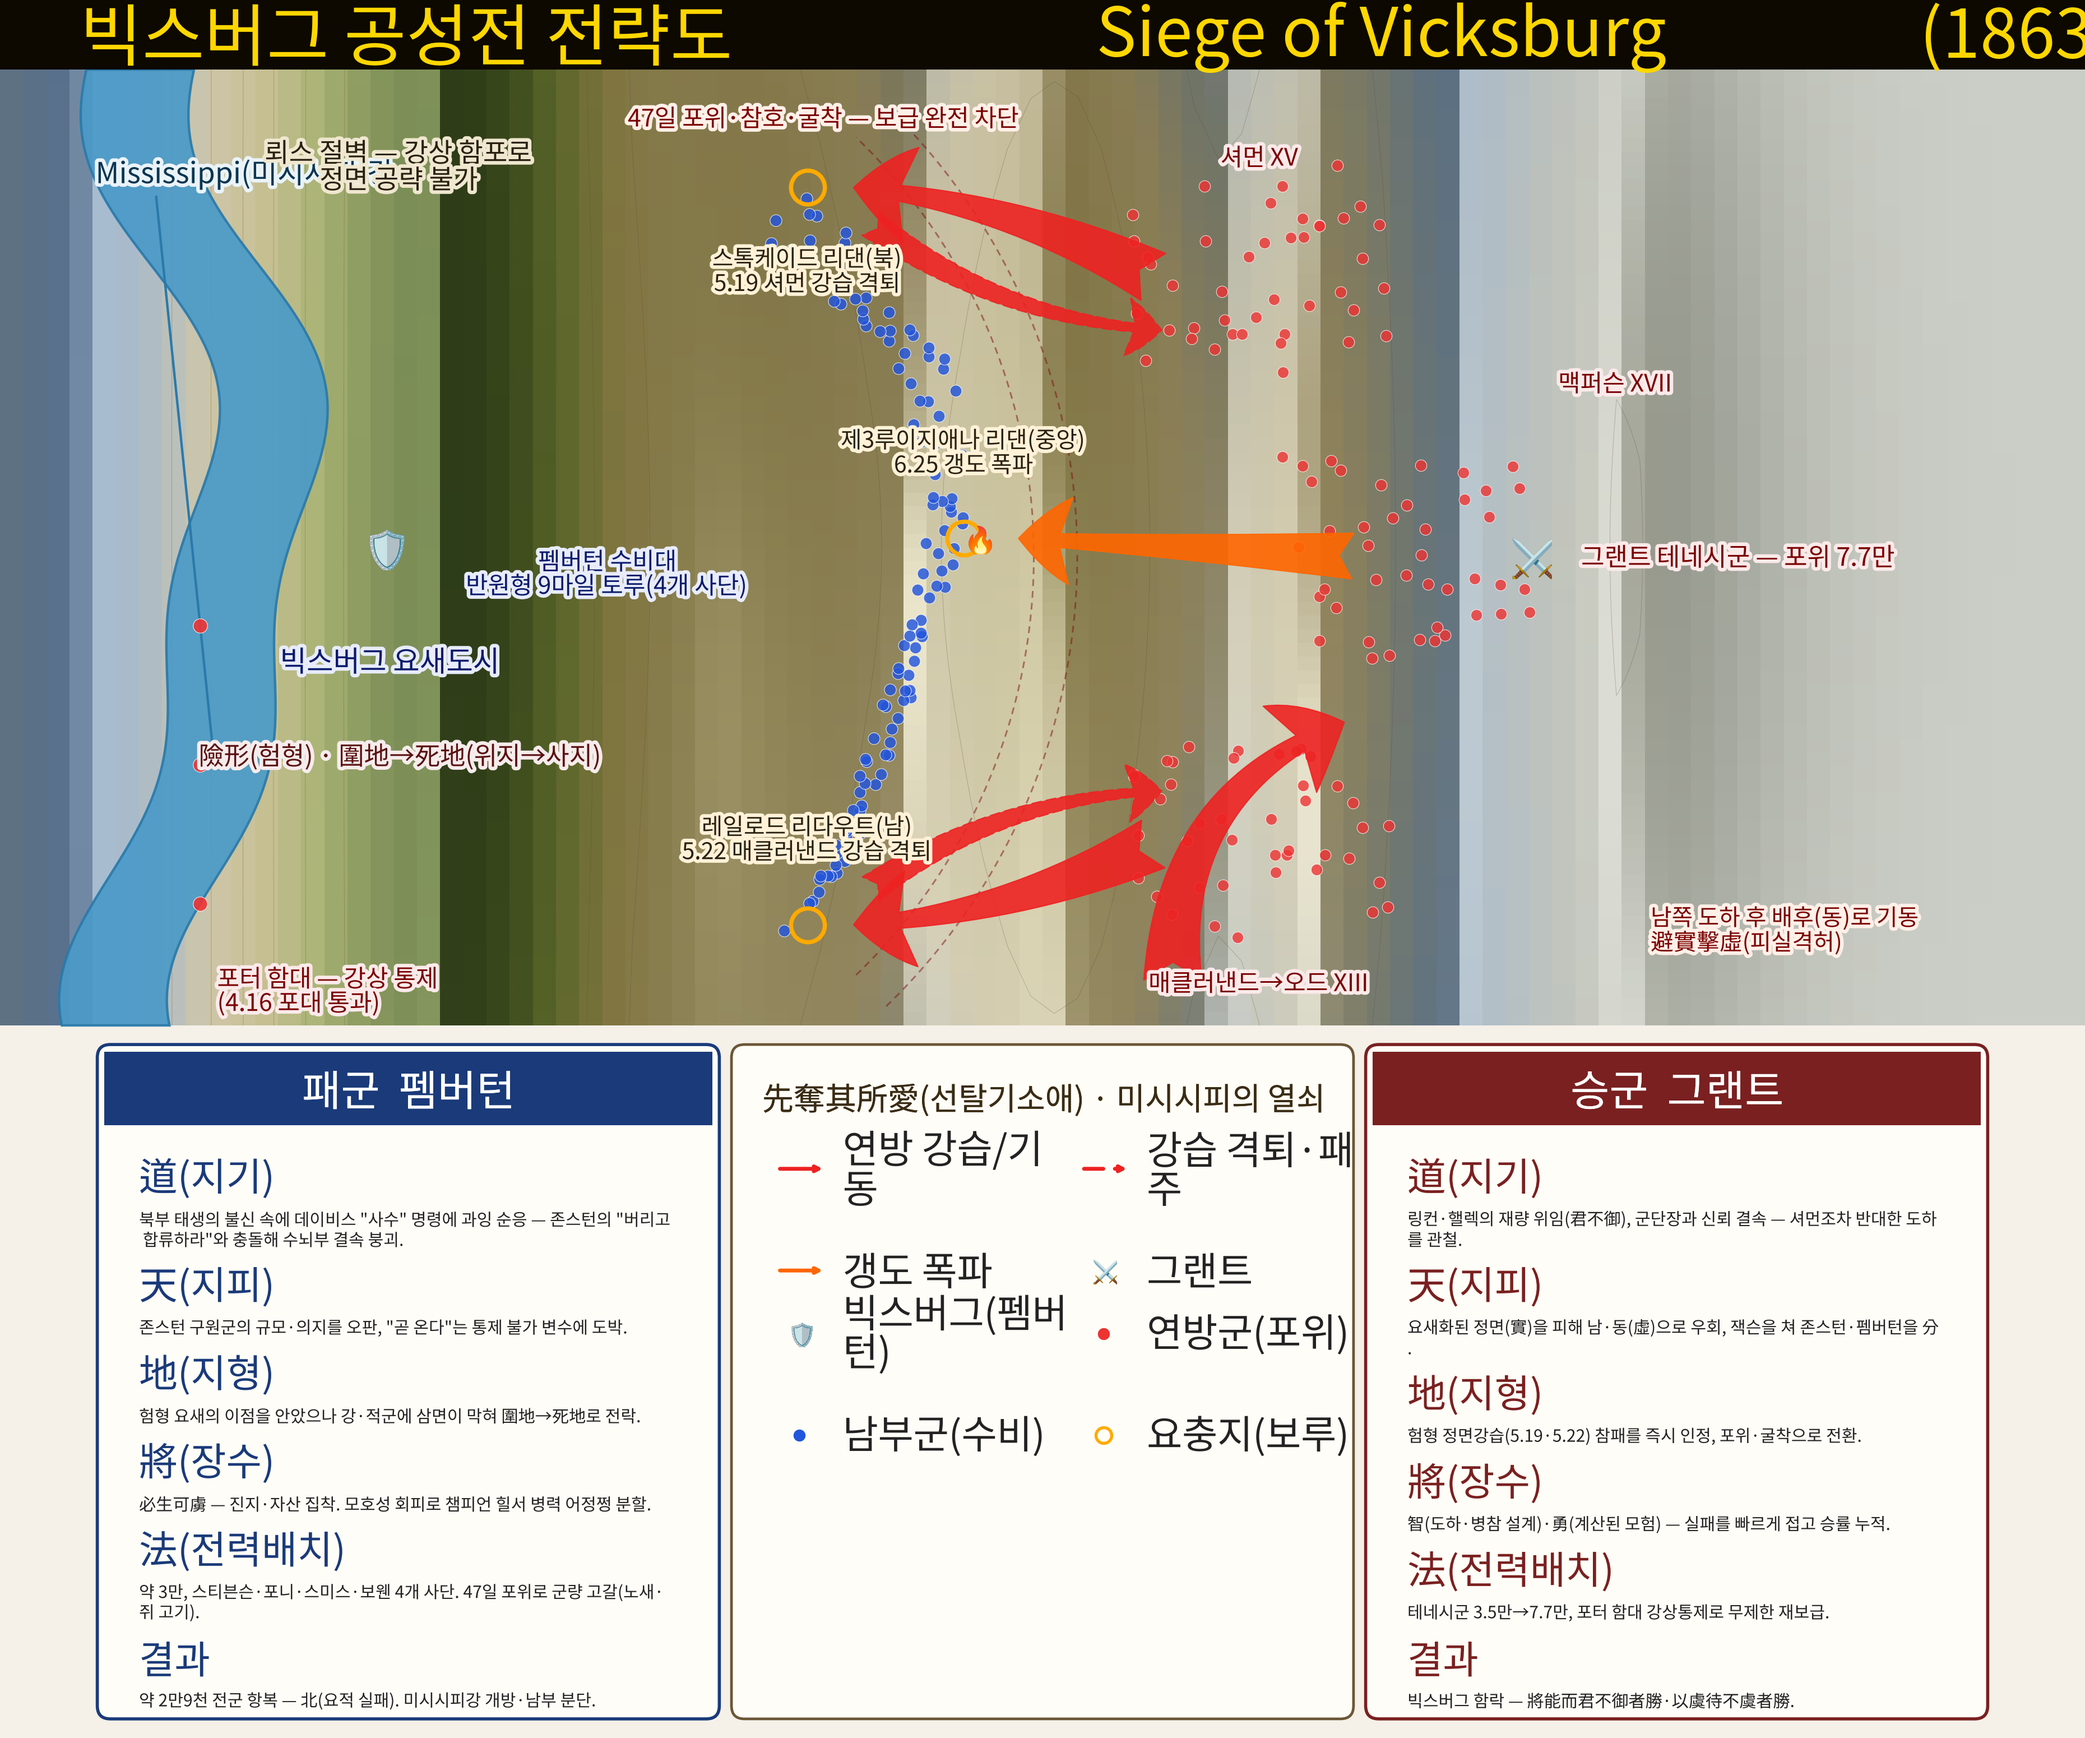
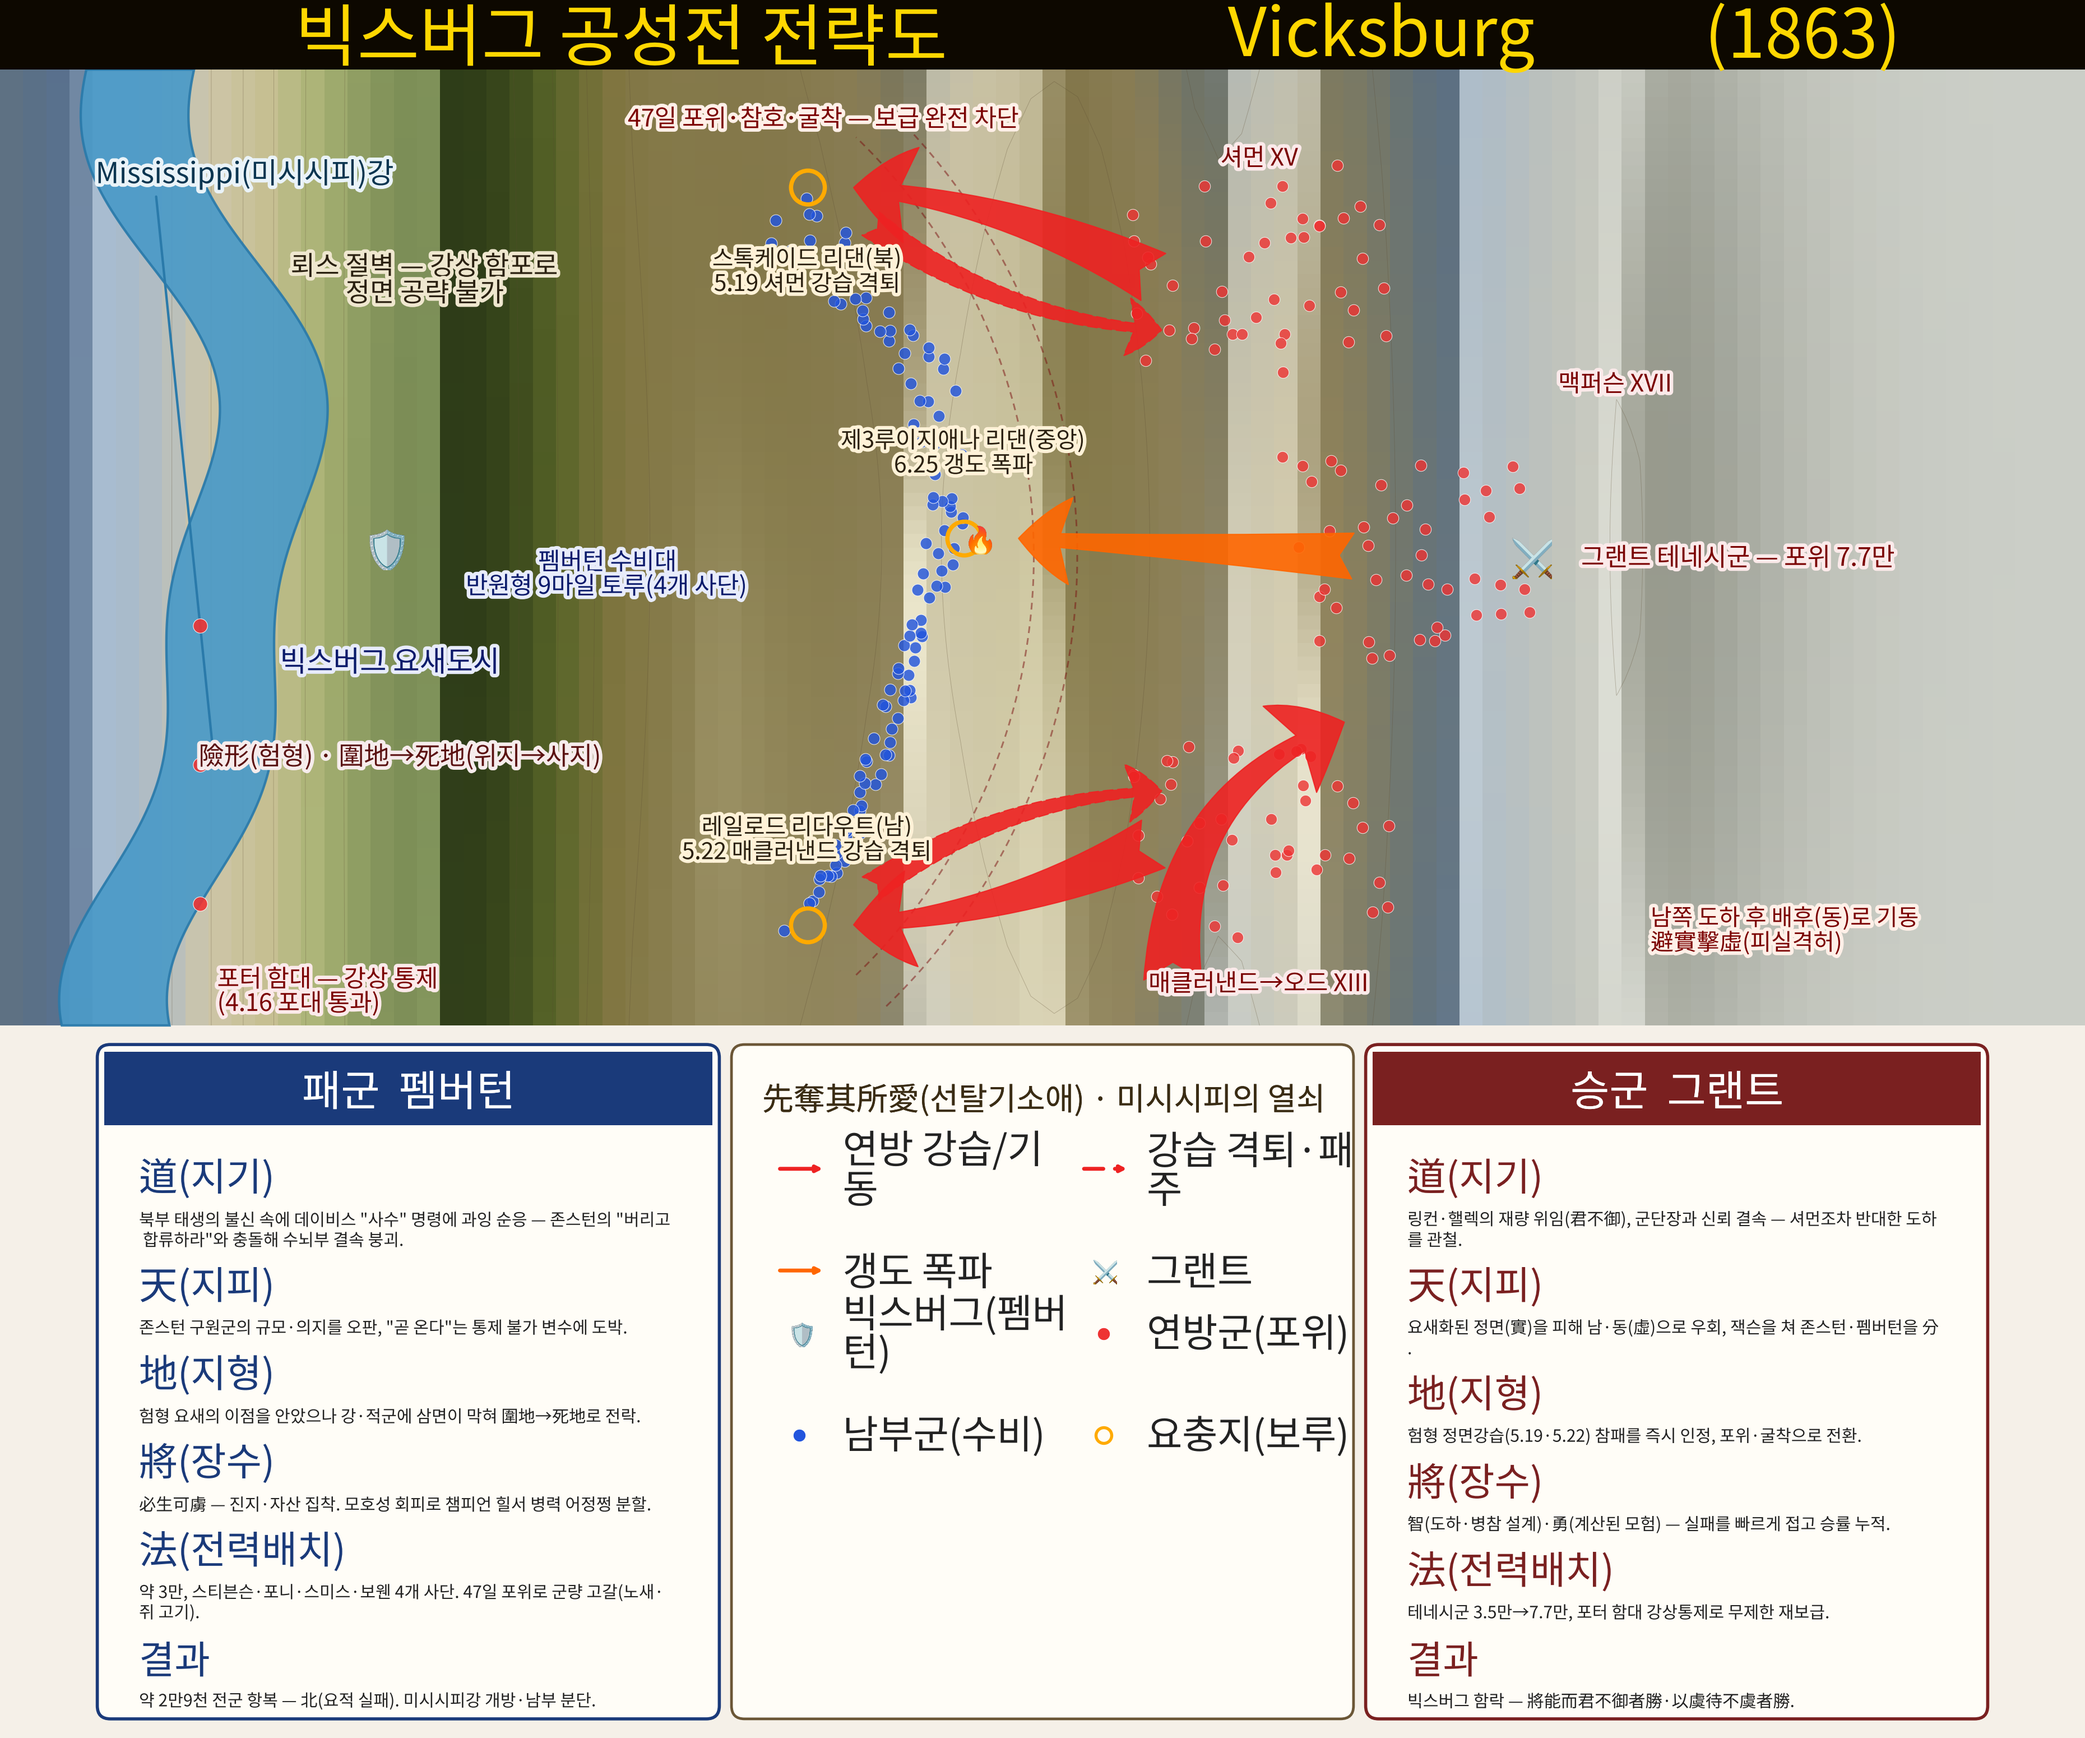
손자병법: 구지 9구절(코덱스 작성) 완료 반영, 빅스버그 지도 제목 잘림 수정

Changed region(s): [[0.0312, 0.0, 0.4677, 0.1858], [0.5301, 0.0, 1.0, 0.0619]]

diff --git a/손자병법/map_vicksburg.py b/손자병법/map_vicksburg.py
@@ -115,7 +115,7 @@ for k, rr in enumerate((6.7, 7.2)):
     ax.plot(tx, ty, color='#7a1010', lw=1.4, ls=(0, (4, 3)), alpha=0.5, zorder=7)
 T(ax, '47일 포위·참호·굴착 — 보급 완전 차단', 9.5, MAP_Y1 - 0.55, sz=20, c='#7a0000', bg='#fff0e8')
 
-draw_title(ax, ['빅스버그 공성전 전략도  ', 'Siege of Vicksburg', '  (1863)'])
+draw_title(ax, ['빅스버그 공성전 전략도  ', 'Vicksburg', '  (1863)'])
 
 legend_items = [
     ('arr', '#ee2222', '연방 강습/기동'),

diff --git a/손자병법/README.md b/손자병법/README.md
@@ -661,7 +661,7 @@ ax.set_facecolor('#f5f0e8')
 
 ## 5. 완료된 구절
 
-**마지막으로 해석한 구절**: 九地篇 8구절 「上下不相收, 卒離而不集, 兵合而不齊, 合於利而動, 不合於利而止」 (새 구절을 완료할 때마다 이 줄을 갱신할 것.)
+**마지막으로 해석한 구절**: 九地篇 9구절 「敢問, 敵衆整而將來, 待之若何? 曰, 先奪其所愛, 則聽矣」 (새 구절을 완료할 때마다 이 줄을 갱신할 것.)
 
 **2026-07-27 전면 최신화 완료**: 九地篇 1~8구절을 최신 품질 기준에 맞춰 다시 검수·보완했다. 각 페이지의 저장 후 본문은 `validate_notion_markup.py --require-five-sections`에서 `NOTION_MARKUP_OK`를 통과했으며, 역사 사례별 天·확률 관점, 패군의 직관·편향, 현대 심리학·군사학 연구, 최신 인물관찰 적용, 전략지형도 위치를 확인했다.
 
@@ -677,6 +677,7 @@ ax.set_facecolor('#f5f0e8')
 | 9편 구지 6구절 「是故散地則無戰…死地則戰」 | [링크](https://app.notion.com/p/3a632a1eae808176bfa0c9bb7ab5e32e) | 크세노폰 만인대 원정(BCE 401~400) / 가정 전투(CE 228) |
 | 9편 구지 7구절 「所謂古之善用兵者…貴賤不相救」 | [링크](https://app.notion.com/p/3a732a1eae808185a3cfe8303a9b9048) | 아우스터리츠 전투(1805) / 이릉대전(222) |
 | 9편 구지 8구절 「上下不相收…不合於利而止」 | [링크](https://app.notion.com/p/3a932a1eae808150bc9bcdc08be9b0c9) | 탄넨베르크 전투(1914) / 마릉 전투(BCE 342경), 이미지 Codex판(유지) + 본문 Claude 전면 재작성(2026-07-27, 승군 道天地將法 표 누락 보완) |
+| 9편 구지 9구절 「敢問, 敵衆整而將來…先奪其所愛, 則聽矣」 | [링크](https://app.notion.com/p/3aa32a1eae808147a972ff4d864b8189) | 빅스버그 공성전(1863) / 관도대전(200), Codex 작성 — Claude 세션에서 검토 결과 패군·승군 표 모두 완전, 빅스버그 지도 제목 잘림만 발견해 수정(Vicksburg_claude_map.png) |
 
 새 구절을 완료하면 이 표에 한 줄씩 추가할 것.
 
